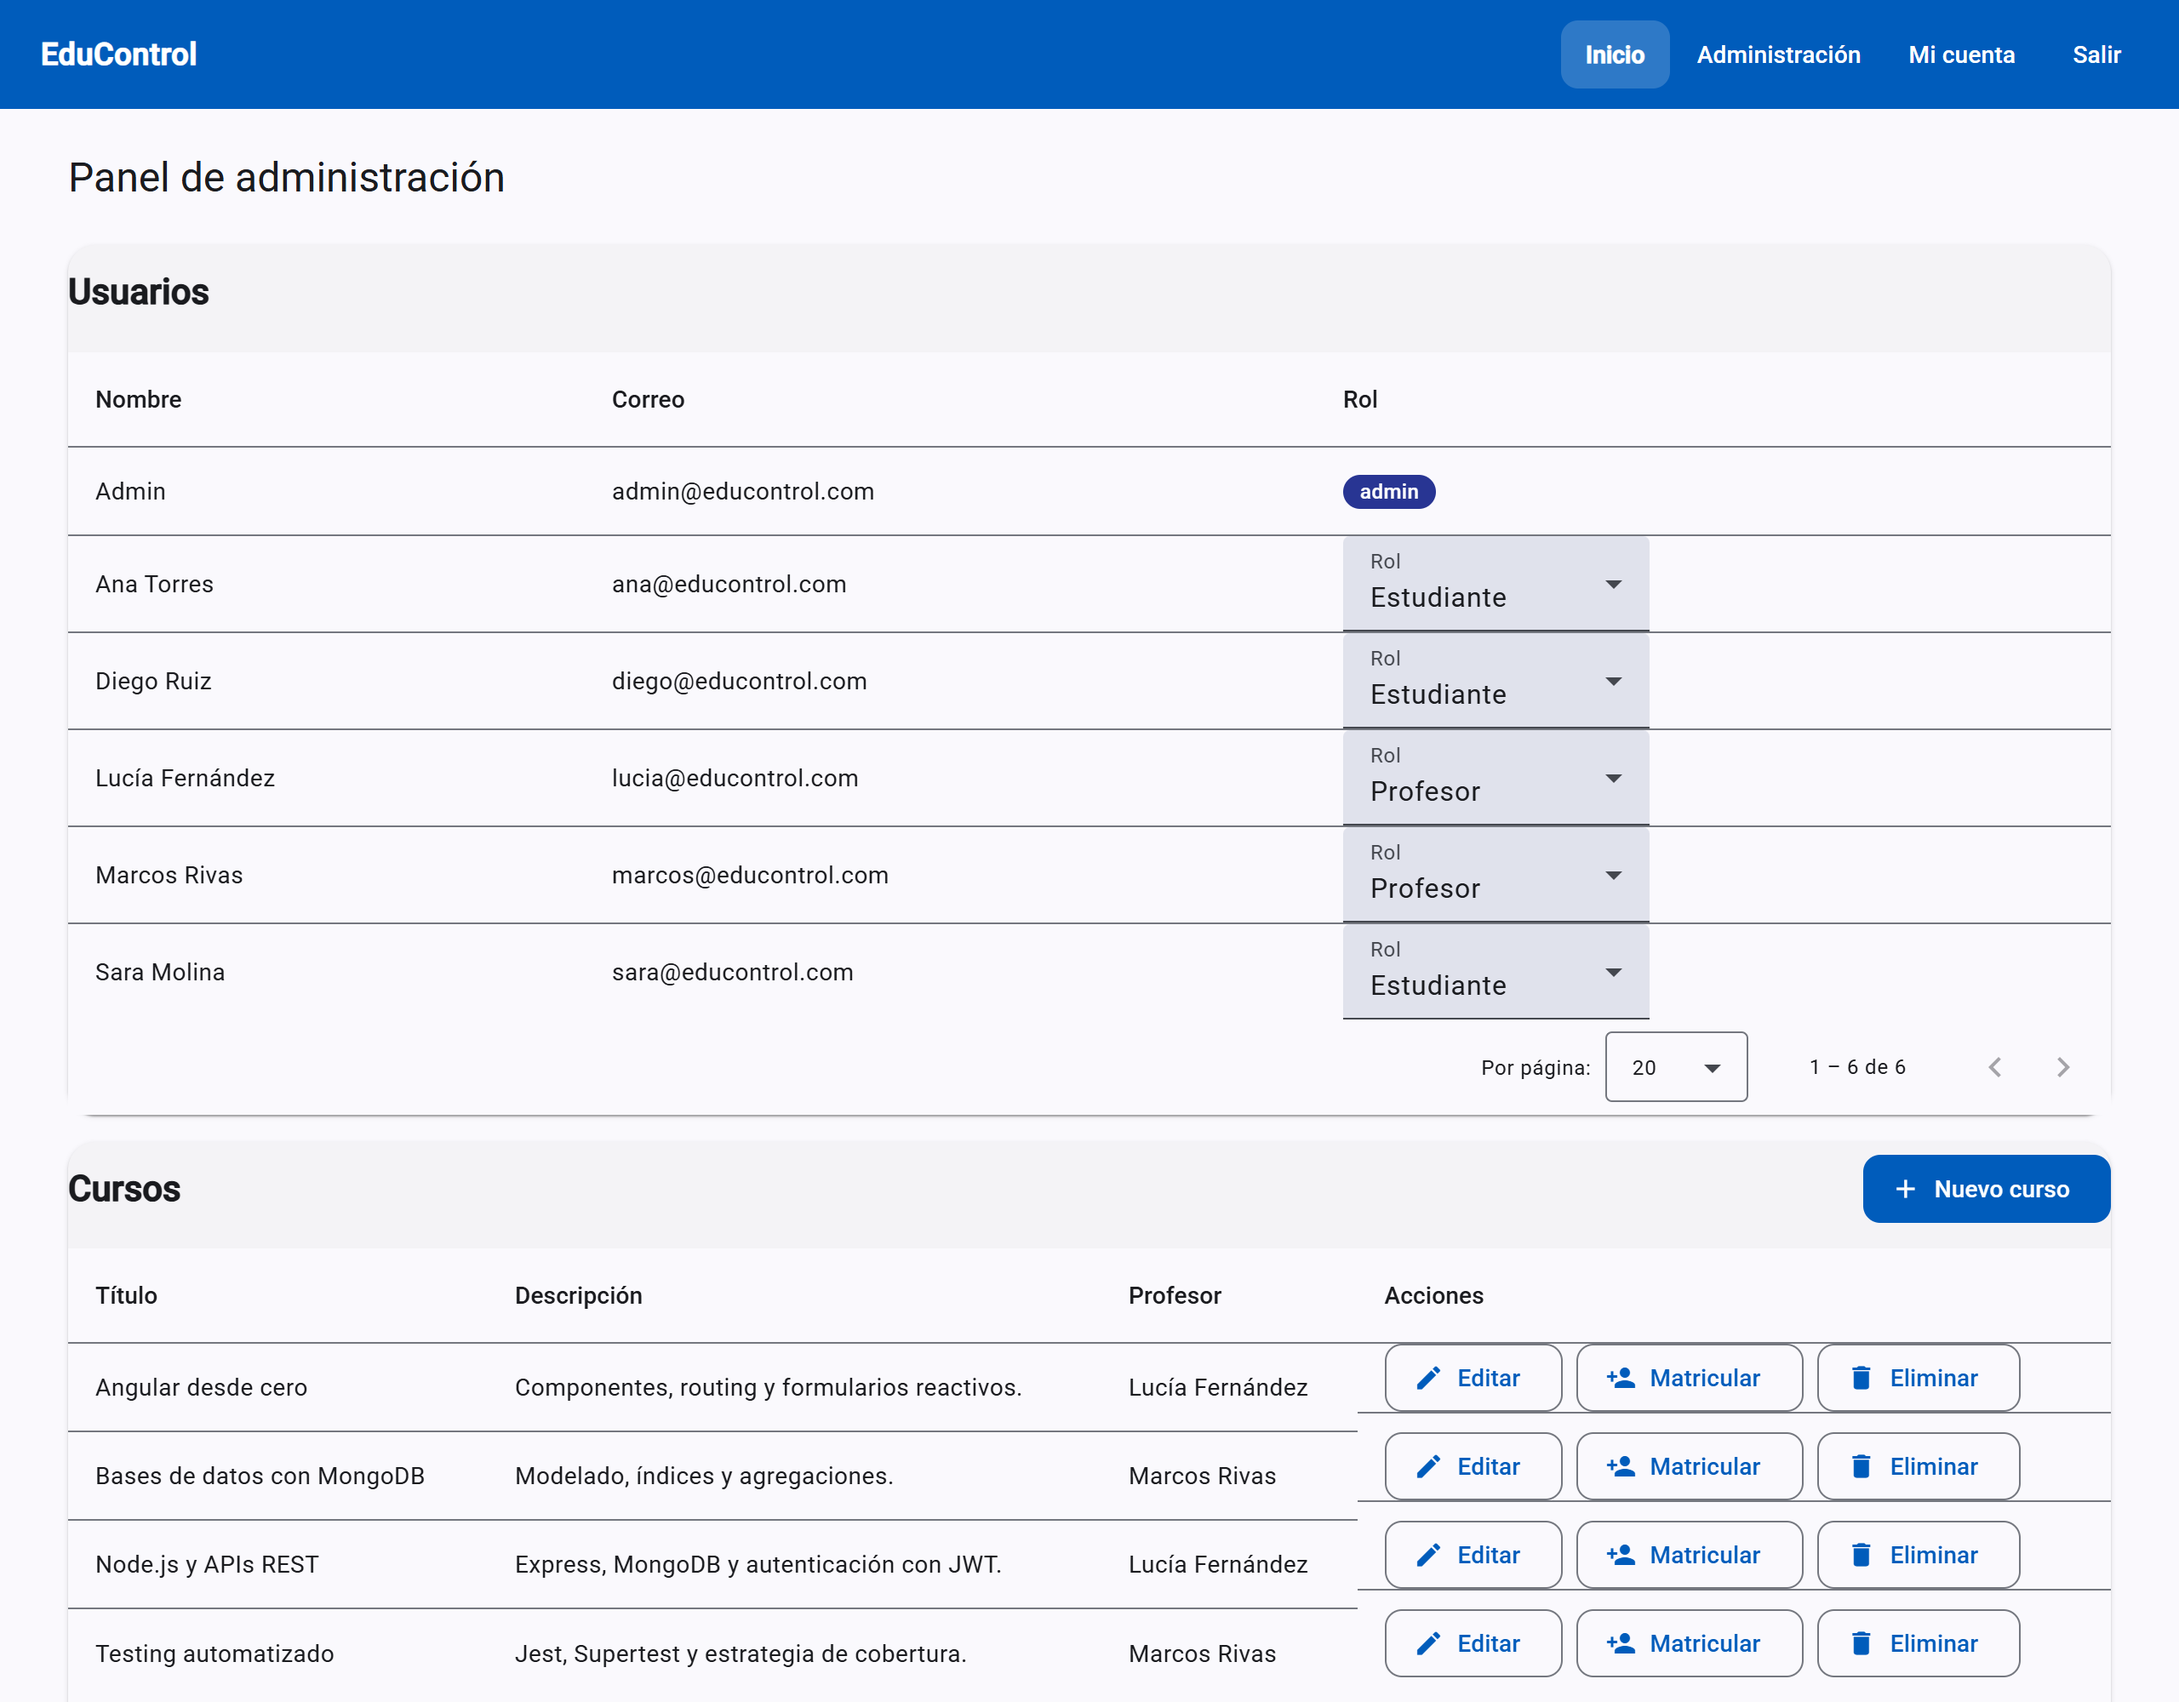
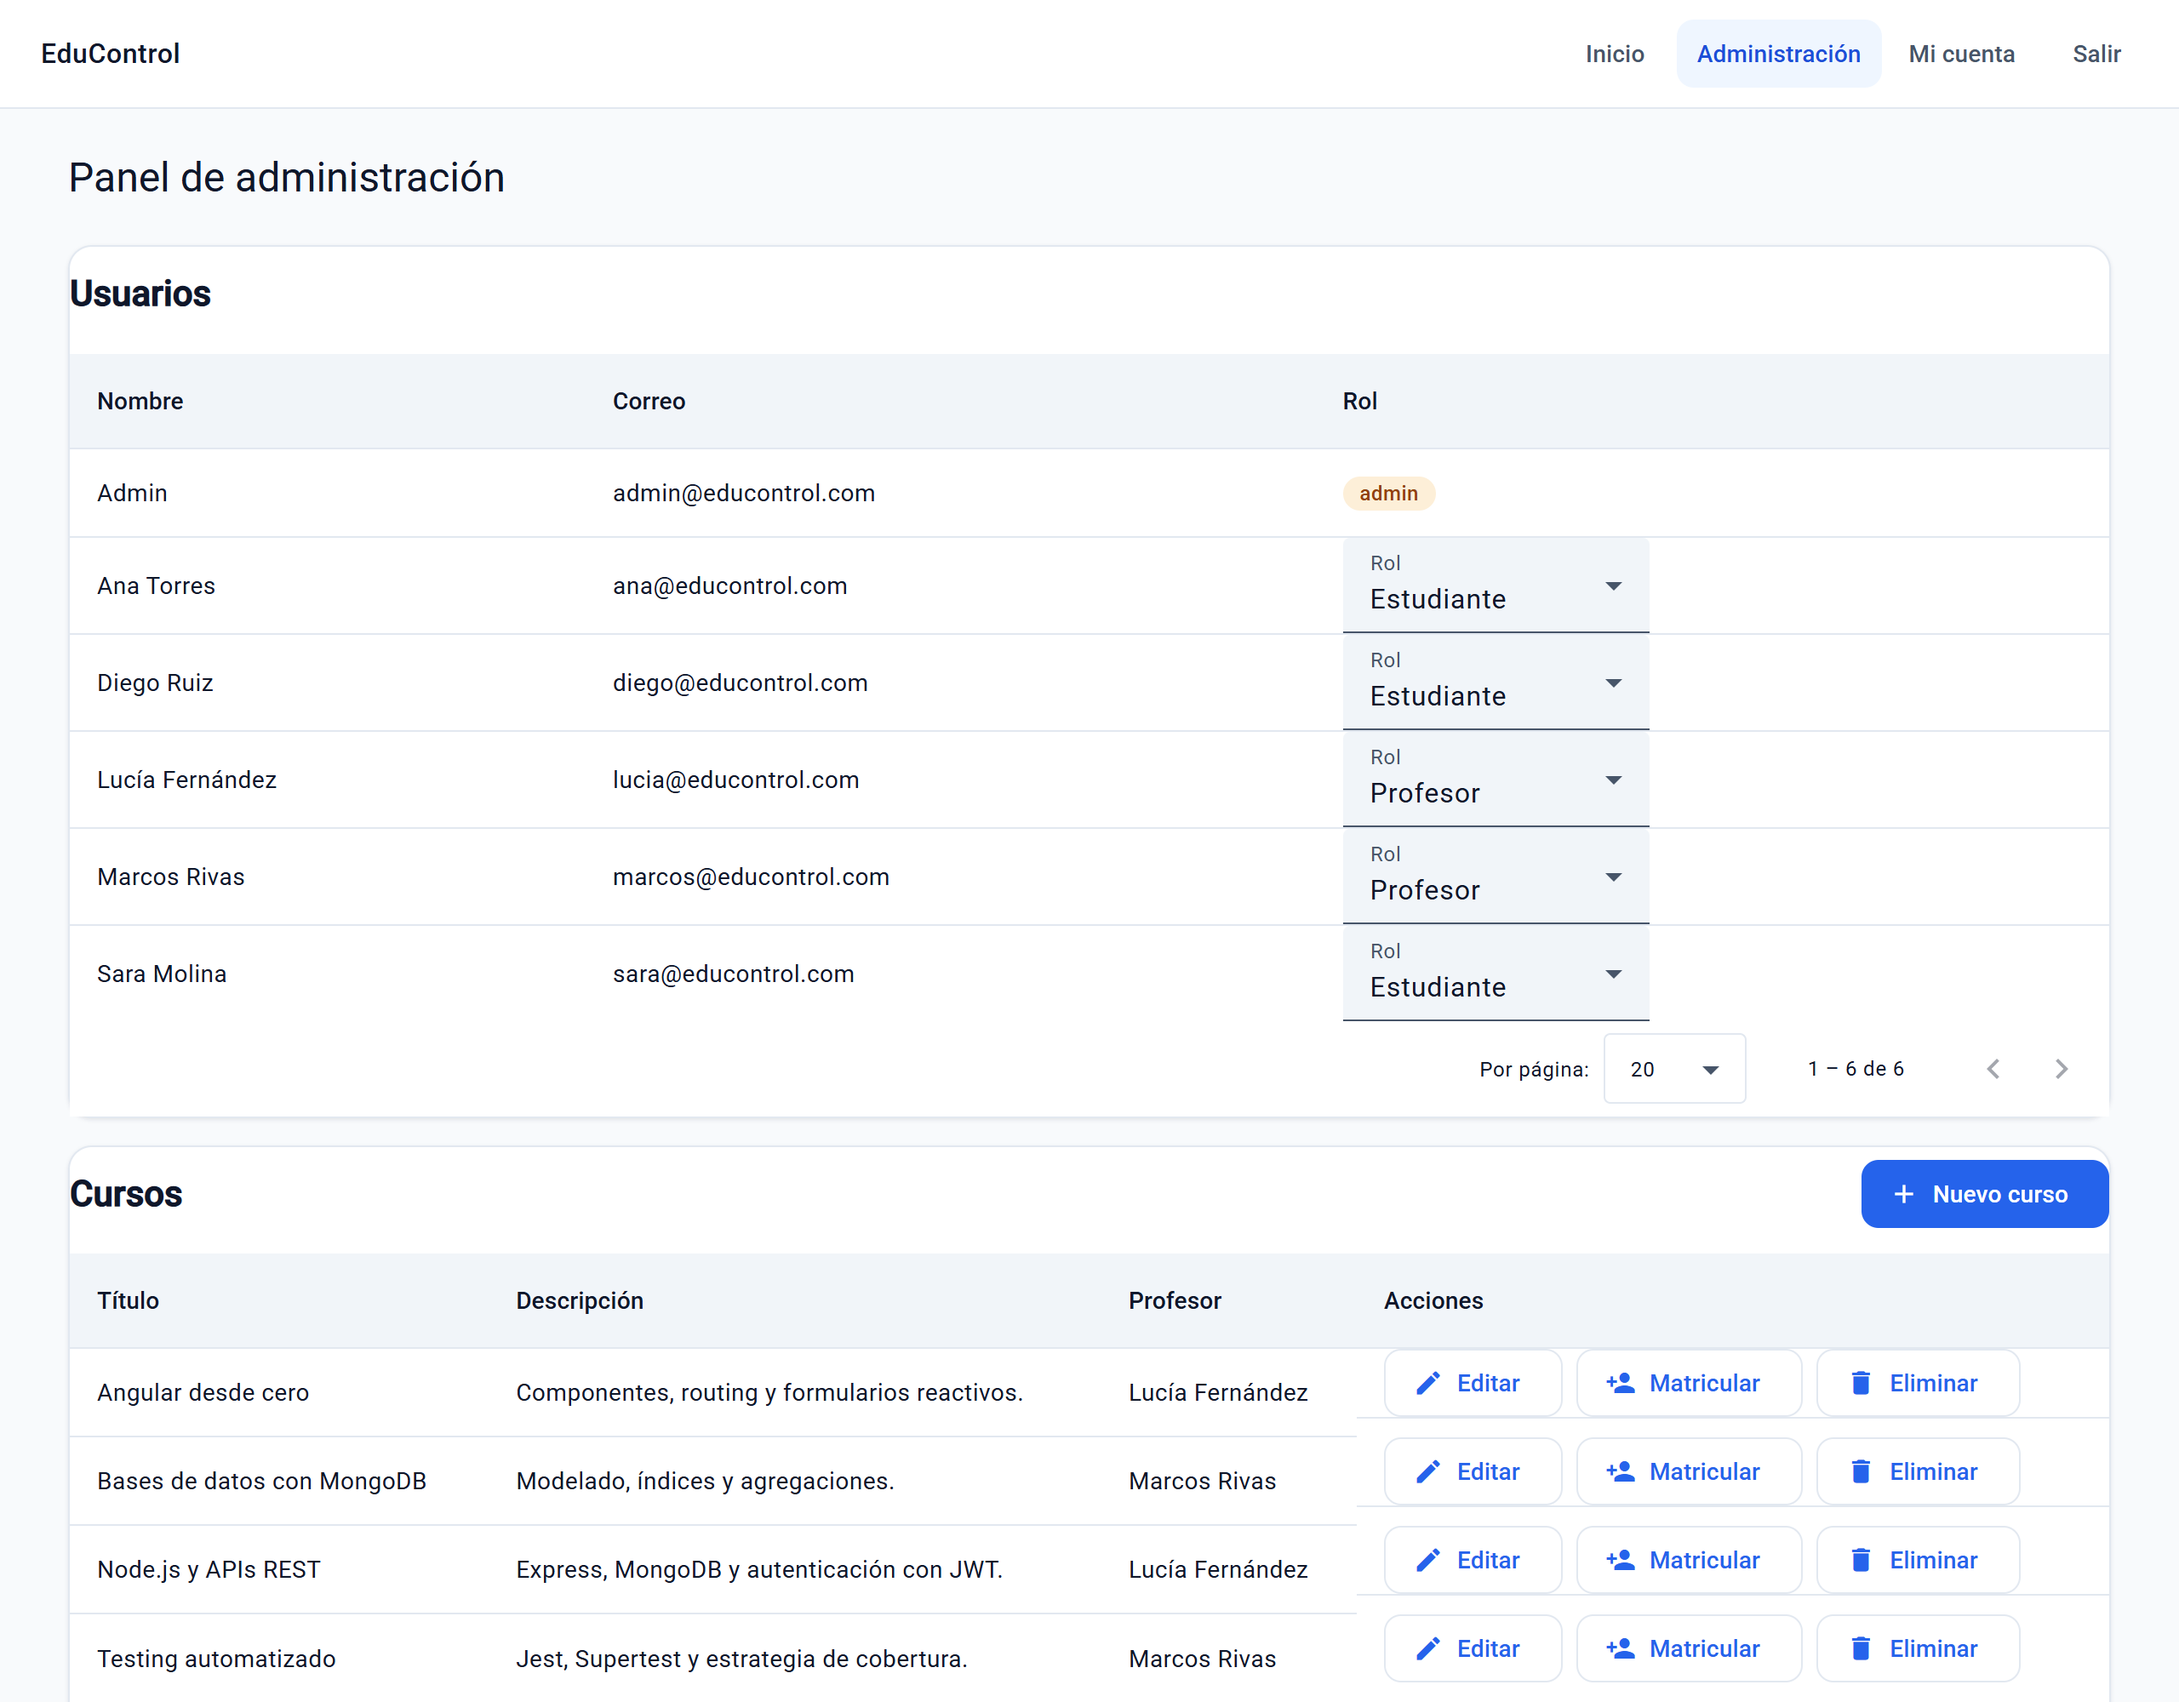
docs(diseño): documenta el sistema y regenera las capturas
docs/DISENO.md: tabla de tokens con el valor en claro y en oscuro, cuándo usar
cada uno, el porqué de las decisiones que no se adivinan, y una sección de
"sí / no" con ejemplos.

Las capturas se regeneran con el sistema aplicado, y el script fija ahora el
tema en cada una con Emulation.setEmulatedMedia. Sin eso, Chrome hereda el
esquema del sistema y las mismas capturas salen claras u oscuras según quién
las regenere: la primera tanda salió entera en oscuro sin querer.

Se añade 07-admin-oscuro.png, el panel en modo oscuro, para que el modo oscuro
deje de ser una promesa del README y se pueda ver.

diff --git a/docs/DISENO.md b/docs/DISENO.md
@@ -1,0 +1,227 @@
+# Sistema de diseño de EduControl
+
+Dirección **A — «consola académica»**: neutros fríos, acento contenido y densidad
+real. El referente son Linear y el panel de Vercel, no una portada de producto.
+La aplicación gestiona listas de gente y de cursos; el diseño va detrás de eso.
+
+Se construye **encima de Angular Material 3**, no en su lugar. Material sigue
+generando sus variables `--mat-sys-*`; lo que añadimos es un vocabulario propio
+y un puente que reapunta esas variables a nuestros tokens. Así una tabla, un
+diálogo o un paginador obedecen la paleta sin escribir una regla para cada uno.
+
+Todo vive en [`frontend/src/styles.scss`](../frontend/src/styles.scss).
+
+---
+
+## De dónde venimos
+
+Lo que había era el tema por defecto del schematic de Material:
+
+- Barra azul saturada de 64 px y todo lo demás casi blanco: la página era un
+  bloque de color y un vacío.
+- Tarjetas gris sobre gris, sin borde ni sombra: se leían como bloques de fondo,
+  no como objetos.
+- Colores escritos a mano (`#1b5e20`, `#283593`, `rgba(0,0,0,.6)`) y dos escalas
+  tipográficas conviviendo (`font-size: 40px` a pelo contra los tokens).
+- Sin modo oscuro. `rgba(0,0,0,.6)` sobre fondo oscuro es invisible.
+
+---
+
+## Tokens
+
+### Superficies
+
+| Token            | Claro     | Oscuro    | Cuándo                                    |
+| ---------------- | --------- | --------- | ----------------------------------------- |
+| `--superficie-0` | `#ffffff` | `#0f172a` | Tarjetas, diálogos, barra superior         |
+| `--superficie-1` | `#f8fafc` | `#0b1120` | Fondo de la página                         |
+| `--superficie-2` | `#f1f5f9` | `#1e293b` | Cabeceras de tabla, chips, zonas hundidas  |
+| `--borde`        | `#e2e8f0` | `#334155` | Contorno de tarjetas, separadores          |
+
+La jerarquía es: la página está en `--superficie-1` y las tarjetas se levantan
+sobre ella con `--superficie-0` más borde. En oscuro se invierte el orden de
+luminosidad —el fondo es más oscuro que la tarjeta— pero la relación se mantiene.
+
+### Texto
+
+| Token            | Claro     | Oscuro    | Cuándo                                     |
+| ---------------- | --------- | --------- | ------------------------------------------ |
+| `--texto`        | `#0f172a` | `#f1f5f9` | Todo el texto de lectura                    |
+| `--texto-suave`  | `#475569` | `#94a3b8` | Secundario: subtítulos, metadatos, etiquetas |
+
+`--texto-suave` es slate-600 y no slate-500 por una razón medida: con `#64748b`
+el texto secundario daba **4,34:1** sobre `--superficie-2`, por debajo del 4,5
+que pide AA.
+
+### Acento
+
+| Token             | Claro     | Oscuro    | Cuándo                                  |
+| ----------------- | --------- | --------- | --------------------------------------- |
+| `--acento`        | `#2563eb` | `#60a5fa` | Acción primaria, enlaces, foco           |
+| `--acento-fuerte` | `#1d4ed8` | `#93c5fd` | Hover, y texto sobre `--acento-suave`    |
+| `--acento-suave`  | `#eff6ff` | `#172554` | Fondos teñidos, sección activa del menú  |
+| `--sobre-acento`  | `#ffffff` | `#0b1120` | Texto encima de `--acento`               |
+
+El azul es el color de **la acción**, no el fondo de una franja. Si algo azul no
+se puede pulsar, está mal.
+
+### Roles
+
+| Token                | Claro     | Oscuro    |
+| -------------------- | --------- | --------- |
+| `--rol-estudiante`   | `#0ea5e9` | `#38bdf8` |
+| `--rol-profesor`     | `#8b5cf6` | `#a78bfa` |
+| `--rol-admin`        | `#f59e0b` | `#fbbf24` |
+
+Cada rol tiene además su versión legible para texto: `--rol-*-texto`. El color
+del rol sirve para **teñir un fondo**, no para escribir encima: `#f59e0b` sobre
+blanco da 2,3:1. El chip usa el color al 14 % de fondo y el `-texto` encima.
+
+### Estado
+
+| Token      | Claro     | Oscuro    |
+| ---------- | --------- | --------- |
+| `--exito`  | `#059669` | `#34d399` |
+| `--aviso`  | `#d97706` | `#fbbf24` |
+| `--error`  | `#dc2626` | `#f87171` |
+
+### Forma y profundidad
+
+| Token         | Valor                      | Cuándo                          |
+| ------------- | -------------------------- | ------------------------------- |
+| `--radio-sm`  | `6px`                      | Chips, campos pequeños           |
+| `--radio-md`  | `10px`                     | Botones, KPI                     |
+| `--radio-lg`  | `14px`                     | Tarjetas, diálogos               |
+| `--sombra-1`  | dos capas al 6 % y 4 %      | Reposo de una tarjeta            |
+| `--sombra-2`  | una capa al 8 %             | Hover, menús flotantes           |
+| `--velo`      | `rgb(0 0 0 / 32%)`         | Fondo tras un diálogo o el menú  |
+| `--transicion`| `150ms`                    | Cualquier cambio de estado       |
+
+Las sombras son de slate (`rgb(15 23 42 / …)`) y no de negro puro: sobre neutros
+fríos, el negro ensucia. `--velo` no se redefine en oscuro a propósito: es una
+sombra sobre el contenido, no una superficie.
+
+---
+
+## Modo oscuro
+
+Se activa solo, siguiendo al sistema, y está preparado para un selector manual:
+
+```scss
+@media (prefers-color-scheme: dark) {
+  :root:not([data-theme='light']) {
+    @include tokens-oscuros;
+  }
+}
+
+:root[data-theme='dark'] {
+  @include tokens-oscuros;
+}
+```
+
+Dos bloques a propósito. El `@media` cubre a quien no ha elegido nada; el
+`[data-theme='dark']` permite que un futuro selector gane **en los dos
+sentidos**, y el guard `:not([data-theme='light'])` es lo que deja forzar el
+claro teniendo el sistema en oscuro.
+
+**Regla que no se rompe:** ningún color tiene su única definición dentro de un
+`@media`. Todo se declara en claro y los bloques oscuros solo redefinen. Un
+token que solo existiera dentro del bloque oscuro sería `unset` en claro, y el
+componente saldría transparente.
+
+---
+
+## Contraste
+
+Comprobado recorriendo el DOM de las ocho pantallas en los dos modos, componiendo
+cada color con alfa sobre su fondo real antes de medir:
+
+| Modo   | Peor pareja medida                    | Ratio |
+| ------ | ------------------------------------- | ----- |
+| Claro  | `--error` sobre `--superficie-0`      | 4,83  |
+| Oscuro | `--texto-suave` sobre `--superficie-2`| 5,71  |
+
+**Cero elementos por debajo de AA** en ninguna de las dos. Tres cosas se
+arreglaron gracias a esa medición y no a la vista:
+
+1. `--texto-suave` pasó de slate-500 a slate-600 (4,34 → 6,92 sobre superficie-2).
+2. El texto del chip de admin pasó a amber-800; con amber-700 se quedaba en 4,44.
+3. Los controles deshabilitados de Material salían al 38 % de opacidad: sobre
+   fondo oscuro daban **1,17:1**, o sea invisibles. El botón «Asignar profesor»
+   desaparecía hasta que elegías curso y profesor. Ahora van al 55 %: parecen
+   deshabilitados, pero se ven.
+
+---
+
+## Cómo usarlo
+
+**Sí:**
+
+```scss
+.tarjeta {
+  background: var(--superficie-0);
+  border: 1px solid var(--borde);
+  border-radius: var(--radio-lg);
+  box-shadow: var(--sombra-1);
+  color: var(--texto);
+}
+
+.subtitulo {
+  color: var(--texto-suave);
+  font: var(--mat-sys-body-medium);
+}
+```
+
+**No:**
+
+```scss
+.tarjeta {
+  background: #fff; /* no existe en oscuro */
+  border-radius: 16px; /* ¿por qué 16 y no 14? */
+}
+
+.titulo {
+  font-size: 40px; /* dos escalas tipográficas conviviendo */
+  font-weight: 800;
+  color: rgba(0, 0, 0, 0.6); /* invisible en oscuro */
+}
+```
+
+Para tipografía, los tokens de Material: `--mat-sys-headline-large`,
+`--mat-sys-title-medium`, `--mat-sys-body-medium`, `--mat-sys-label-large`. Un
+`font-size` numérico solo se acepta con un comentario que lo justifique, y hoy
+los únicos que quedan son tamaños de glifo de `<mat-icon>`, que se dimensionan
+así por diseño de Material.
+
+Para espaciado, la escala que ya existía: `--sp-1` (4px) a `--sp-7` (48px).
+
+---
+
+## Muestra
+
+Las capturas de esta carpeta están hechas con el sistema aplicado:
+
+| Pantalla                | Archivo                                    |
+| ----------------------- | ------------------------------------------ |
+| Portada                 | [00-portada.png](00-portada.png)           |
+| Login                   | [01-login.png](01-login.png)               |
+| Panel de administración | [02-admin.png](02-admin.png)               |
+| Panel de profesor       | [03-profesor.png](03-profesor.png)         |
+| Panel de estudiante     | [04-estudiante.png](04-estudiante.png)     |
+| Login en móvil          | [05-movil-login.png](05-movil-login.png)   |
+| Admin en móvil          | [06-movil-admin.png](06-movil-admin.png)   |
+| **Admin en modo oscuro** | [07-admin-oscuro.png](07-admin-oscuro.png) |
+
+Se regeneran con `npm run capturas` (necesita el servidor levantado; recorre
+las pantallas con un Chrome sin interfaz). El script fija el tema en cada
+captura con `Emulation.setEmulatedMedia`: sin eso, Chrome hereda el esquema del
+sistema y las mismas capturas salen claras u oscuras según quién las regenere.
+
+---
+
+## Lo que este documento no cubre
+
+La **estructura** de los paneles —la barra lateral de 260 px, los KPI como
+tarjetas, el menú `⋮` de la tabla, rellenar el vacío de los paneles de profesor
+y estudiante— es la siguiente fase. Aquí solo está el vocabulario: colores,
+formas, sombras y tipografía.
